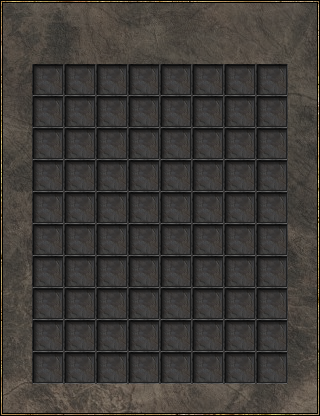
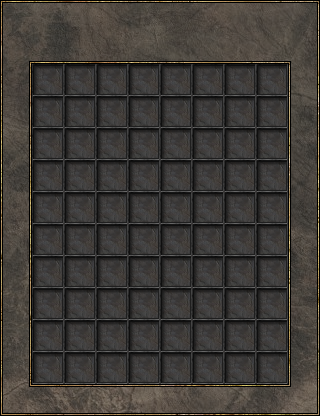
Make MenuVendor background nicer

Changed region(s): [[0.0938, 0.125, 0.9062, 0.9375]]

diff --git a/src/MenuStash.cpp b/src/MenuStash.cpp
@@ -69,7 +69,7 @@ MenuStash::MenuStash(ItemManager *_items, StatBlock *_stats) {
 }
 
 void MenuStash::loadGraphics() {
-	background = IMG_Load(mods->locate("images/menus/vendor.png").c_str());
+	background = IMG_Load(mods->locate("images/menus/stash.png").c_str());
 	if(!background) {
 		fprintf(stderr, "Couldn't load image: %s\n", IMG_GetError());
 		SDL_Quit();
